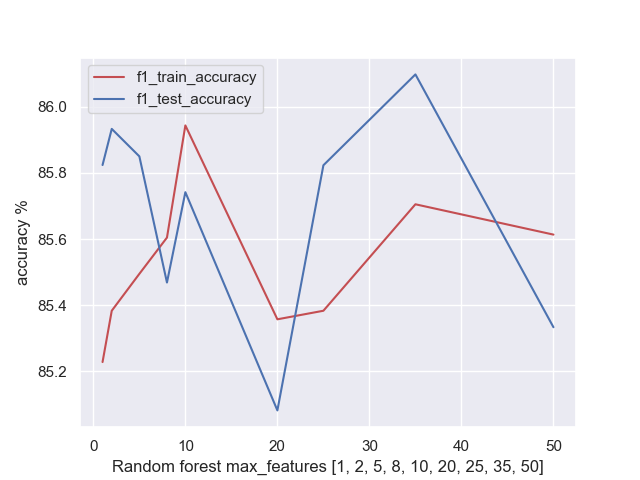
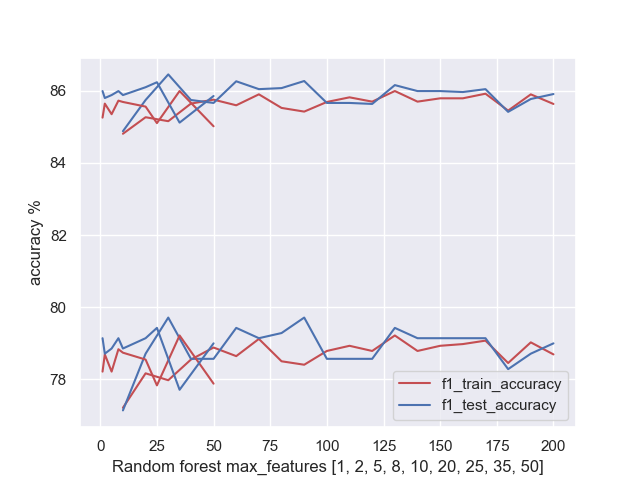
random forest fixed

diff --git a/assignments/assignment_3/src/tree.py b/assignments/assignment_3/src/tree.py
@@ -49,9 +49,9 @@ class DecisionTreeClassifier():
 
 	# take in features X and labels y
 	# build a tree
-	def fit(self, X, y, feat_idx = None):
+	def fit(self, X, y, max_feat = None):
 		self.num_classes = len(set(y))
-		self.root = self.build_tree(X, y, depth=1, feat_idx = feat_idx)
+		self.root = self.build_tree(X, y, depth=1, max_feat = max_feat)
 	
 
 
@@ -79,13 +79,13 @@ class DecisionTreeClassifier():
 		return accuracy
 
 	# function to build a decision tree
-	def build_tree(self, X, y, depth, feat_idx = None):
+	def build_tree(self, X, y, depth, max_feat = None):
 		num_samples, num_features = X.shape
 		# which features we are considering for splitting on
-		if feat_idx == None:
+		if max_feat == None:
 			self.features_idx = np.arange(0, X.shape[1])
 		else:
-			self.features_idx = feat_idx			
+			self.features_idx = random.sample(range(51), max_feat)			
 
 		# store data and information about best split
 		# used when building subtrees recursively
@@ -211,14 +211,11 @@ class RandomForestClassifier():
 	# fit all trees
 	def fit(self, X, y):
 		bagged_X, bagged_y = self.bag_data(X, y)
-		feat_idx = []
 		self.forest = []
-
 		print('Fitting Random Forest...\n')
 		for i in range(self.n_trees):
-			feat_idx = random.sample(range(51), self.max_features)
 			tr = DecisionTreeClassifier(max_depth = self.max_depth)
-			tr.fit(bagged_X[i], bagged_y[i], feat_idx = feat_idx)
+			tr.fit(bagged_X[i], bagged_y[i], max_feat = self.max_features)
 			self.forest.append(tr)
 			
 		

diff --git a/assignments/assignment_3/src/main.py b/assignments/assignment_3/src/main.py
@@ -128,7 +128,7 @@ if __name__ == '__main__':
 		print("accuracy_result.txt created !\n")
 
 	# Part 2 - Random Forest
-	if args.random_forest == 0:
+	if args.random_forest == 1:
 		forest_train_accs = []
 		forest_test_accs = []
 		forest_f1_train_accs = []
@@ -171,7 +171,7 @@ if __name__ == '__main__':
 
 	# Part 3 - Ada Boosting
 	# part 3 - A
-	if args.ada_boost == 1:
+	if args.ada_boost == 0:
 		adaboost_train_accs = []
 		adaboost_test_accs = []
 		adaboost_f1_train_accs = []
